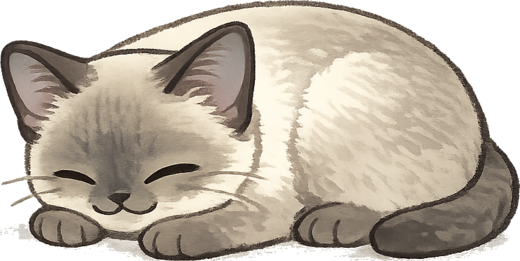
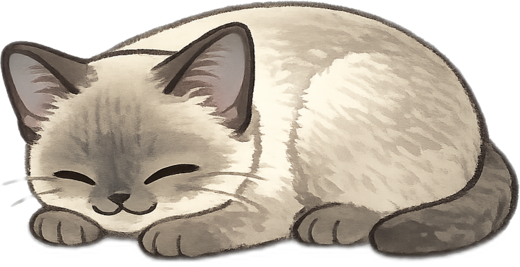
style: isolate cat (remove shadow) + drop projects section

diff --git a/README.md b/README.md
@@ -1,3 +1,16 @@
 <p align="center">
   <img src="assets/cat.png" alt="banner" width="34%">
 </p>
+
+<h1 align="center">hi, i'm 黄黄汪 (huangguang1999)!</h1>
+
+<h3 align="center">welcome to my profile (=˘ω˘=) zzz</h3>
+
+<p align="center">字节跳动工程师 · 写 TypeScript 和 Go · 沉迷 AI Agent 与命令行工具～☆</p>
+
+<p align="center">
+  <strong><a href="mailto:huangguang1999@163.com">Email</a></strong> |
+  <strong><a href="https://github.com/huangguang1999">GitHub</a></strong> |
+  <strong><a href="https://x.com/krisggggggg">X</a></strong> |
+  <strong><a href="https://bytedance.com">ByteDance</a></strong>
+</p>
